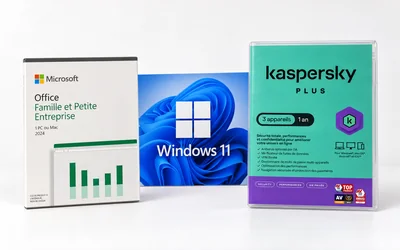
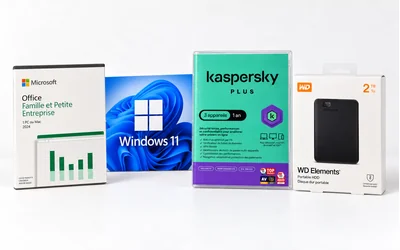
Include WD Elements portable drive in sales card photo

diff --git a/public/mentions-legales/index.html b/public/mentions-legales/index.html
@@ -246,14 +246,14 @@
           </div>
         </article>
         <article class="photo-credit" role="listitem">
-          <a class="photo-credit__preview" href="/assets/img/photos/logiciels-client-800.webp" aria-label="Voir l’image : Kaspersky Plus, Microsoft Office et Windows 11">
+          <a class="photo-credit__preview" href="/assets/img/photos/logiciels-client-800.webp" aria-label="Voir l’image : Kaspersky Plus, Microsoft Office, Windows 11 et WD Elements">
 <img class="editorial-photo photo--contain "
   src="/assets/img/photos/logiciels-client-800.webp"
   srcset="/assets/img/photos/logiciels-client-400.webp 400w, /assets/img/photos/logiciels-client-800.webp 800w, /assets/img/photos/logiciels-client-1600.webp 1600w"
   sizes="96px" width="1600" height="1000"
-  alt="Les logiciels Kaspersky Plus, Microsoft Office Famille et Petite Entreprise 2024 et Windows 11, présentation issue de la photo fournie par Digital-Buro" loading="lazy"  decoding="async"></a>
+  alt="Kaspersky Plus, Microsoft Office Famille et Petite Entreprise 2024, Windows 11 et disque dur portable WD Elements 2 To, présentation issue de la photo fournie par Digital-Buro" loading="lazy"  decoding="async"></a>
           <div>
-            <h3>Kaspersky Plus, Microsoft Office et Windows 11</h3>
+            <h3>Kaspersky Plus, Microsoft Office, Windows 11 et WD Elements</h3>
             <p>Photo fournie par Digital-Buro ; présentation retouchée par IA à partir du cliché du client. Marques et emballages appartenant à leurs ayants droit.</p>
             <p class="photo-credit__links"><a href="/assets/img/photos/logiciels-client-800.webp">Image utilisée</a></p>
           </div>

diff --git a/public/404.html b/public/404.html
@@ -165,7 +165,7 @@
   <a class="svc-card" href="/vente-materiel/">
   <div class="svc-card__body">
     <h2 class="svc-card__title">Vente de matériel</h2>
-    <p class="svc-card__text">Kaspersky, Office et Windows 11 : vos logiciels au magasin.</p>
+    <p class="svc-card__text">Kaspersky, Office, Windows 11 et disques durs portables : vos logiciels et accessoires au magasin.</p>
     <span class="link-arrow svc-card__link">Vente de matériel<svg class="icon" aria-hidden="true" focusable="false"><use href="/assets/img/icons.svg?v=860fc3b275#arrow-right"></use></svg></span>
   </div>
   <div class="svc-card__art svc-card__art--photo svc-card__art--editorial">
@@ -173,7 +173,7 @@
   src="/assets/img/photos/logiciels-client-800.webp"
   srcset="/assets/img/photos/logiciels-client-400.webp 400w, /assets/img/photos/logiciels-client-800.webp 800w, /assets/img/photos/logiciels-client-1600.webp 1600w"
   sizes="(min-width: 1280px) 380px, (min-width: 1024px) calc((100vw - 104px) / 3), (min-width: 768px) calc((100vw - 80px) / 2), (min-width: 640px) calc((100vw - 48px) / 2), calc(100vw - 32px)" width="1600" height="1000"
-  alt="Les logiciels Kaspersky Plus, Microsoft Office Famille et Petite Entreprise 2024 et Windows 11, présentation issue de la photo fournie par Digital-Buro" loading="lazy"  decoding="async"></div>
+  alt="Kaspersky Plus, Microsoft Office Famille et Petite Entreprise 2024, Windows 11 et disque dur portable WD Elements 2 To, présentation issue de la photo fournie par Digital-Buro" loading="lazy"  decoding="async"></div>
 </a>
   <a class="svc-card" href="/cartouches-toners/">
   <div class="svc-card__body">

diff --git a/public/index.html b/public/index.html
@@ -248,7 +248,7 @@
   <a class="svc-card" href="/vente-materiel/">
   <div class="svc-card__body">
     <h3 class="svc-card__title">Vente de matériel</h3>
-    <p class="svc-card__text">Kaspersky, Office et Windows 11 : vos logiciels au magasin.</p>
+    <p class="svc-card__text">Kaspersky, Office, Windows 11 et disques durs portables : vos logiciels et accessoires au magasin.</p>
     <span class="link-arrow svc-card__link">Vente de matériel<svg class="icon" aria-hidden="true" focusable="false"><use href="/assets/img/icons.svg?v=860fc3b275#arrow-right"></use></svg></span>
   </div>
   <div class="svc-card__art svc-card__art--photo svc-card__art--editorial">
@@ -256,7 +256,7 @@
   src="/assets/img/photos/logiciels-client-800.webp"
   srcset="/assets/img/photos/logiciels-client-400.webp 400w, /assets/img/photos/logiciels-client-800.webp 800w, /assets/img/photos/logiciels-client-1600.webp 1600w"
   sizes="(min-width: 1280px) 380px, (min-width: 1024px) calc((100vw - 104px) / 3), (min-width: 768px) calc((100vw - 80px) / 2), (min-width: 640px) calc((100vw - 48px) / 2), calc(100vw - 32px)" width="1600" height="1000"
-  alt="Les logiciels Kaspersky Plus, Microsoft Office Famille et Petite Entreprise 2024 et Windows 11, présentation issue de la photo fournie par Digital-Buro" loading="lazy"  decoding="async"></div>
+  alt="Kaspersky Plus, Microsoft Office Famille et Petite Entreprise 2024, Windows 11 et disque dur portable WD Elements 2 To, présentation issue de la photo fournie par Digital-Buro" loading="lazy"  decoding="async"></div>
 </a>
   <a class="svc-card" href="/cartouches-toners/">
   <div class="svc-card__body">

diff --git a/public/conseils/fonctionnement-imprimante-laser-jet-encre/index.html b/public/conseils/fonctionnement-imprimante-laser-jet-encre/index.html
@@ -275,7 +275,7 @@
   <a class="svc-card" href="/vente-materiel/">
   <div class="svc-card__body">
     <h3 class="svc-card__title">Vente de matériel</h3>
-    <p class="svc-card__text">Kaspersky, Office et Windows 11 : vos logiciels au magasin.</p>
+    <p class="svc-card__text">Kaspersky, Office, Windows 11 et disques durs portables : vos logiciels et accessoires au magasin.</p>
     <span class="link-arrow svc-card__link">Vente de matériel<svg class="icon" aria-hidden="true" focusable="false"><use href="/assets/img/icons.svg?v=860fc3b275#arrow-right"></use></svg></span>
   </div>
   <div class="svc-card__art svc-card__art--photo svc-card__art--editorial">
@@ -283,7 +283,7 @@
   src="/assets/img/photos/logiciels-client-800.webp"
   srcset="/assets/img/photos/logiciels-client-400.webp 400w, /assets/img/photos/logiciels-client-800.webp 800w, /assets/img/photos/logiciels-client-1600.webp 1600w"
   sizes="(min-width: 1280px) 380px, (min-width: 1024px) calc((100vw - 104px) / 3), (min-width: 768px) calc((100vw - 80px) / 2), (min-width: 640px) calc((100vw - 48px) / 2), calc(100vw - 32px)" width="1600" height="1000"
-  alt="Les logiciels Kaspersky Plus, Microsoft Office Famille et Petite Entreprise 2024 et Windows 11, présentation issue de la photo fournie par Digital-Buro" loading="lazy"  decoding="async"></div>
+  alt="Kaspersky Plus, Microsoft Office Famille et Petite Entreprise 2024, Windows 11 et disque dur portable WD Elements 2 To, présentation issue de la photo fournie par Digital-Buro" loading="lazy"  decoding="async"></div>
 </a>
 </div>
   </div>

diff --git a/artifacts/SOFTWARE-IMAGE-PROMPT.md b/artifacts/SOFTWARE-IMAGE-PROMPT.md
@@ -1,10 +1,13 @@
-# Composition des logiciels — 8 octobre 2026
+# Composition des logiciels et du disque dur portable — 8 octobre 2026
 
 Outil : imagegen intégré, retouche de la photographie fournie par le client.
 Source : `WhatsApp Image 2026-10-08 at 14.11.35.jpeg`.
 Résultat conservé : `tools/source-images/logiciels-client-edited.png`.
 Exports : `src/assets/img/photos/logiciels-client-{400,800,1600}.webp`.
 
-## Prompt final
+## Prompt initial (remplacé par la composition de quatre produits)
 
 Edit target: the attached client photograph of packaged software. Create a polished photographic product composition for the Digital-Buro website service card, horizontal landscape 8:5. Keep the SAME real products, packaging graphics and recognizable branding from the reference: Microsoft Office Famille et Petite Entreprise 2024, Kaspersky PLUS (3 appareils, 1 an), and Windows 11 blue card. Show these three products neatly arranged side by side or slightly overlapping, all main labels unobstructed and readable, whole products visible with generous margins. Remove the WD hard-drive package because the requested subject is these three software products. Improve lighting, straighten the perspective and remove glare on the plastic Kaspersky packaging. Clean off-white studio tabletop and backdrop, soft realistic shadows, natural crisp product photography fitting a minimalist white/navy/orange repair shop website. Preserve the brand colours and logos, exact main product names, Office edition and year, Kaspersky licence quantity and duration; do not invent claims, certifications, new labels, extra products, promotional text, watermarks or frames. Maintain photographic authenticity to the supplied packages. Only improve presentation, light and composition.
+## Prompt final — ajout du WD Elements
+
+Edit target: image 1, the polished landscape software product composition. Supporting insert reference: image 2, the original client photo, specifically its WD Elements portable hard drive retail package. Update the existing composition to include ALL FOUR products: Microsoft Office Famille et Petite Entreprise 2024, Windows 11, Kaspersky Plus (3 appareils, 1 an), and the WD Elements Portable HDD 2 TB / 2 To box from the reference. Preserve the current clean off-white studio background, soft shadows, crisp realistic product photography, brand colours, packaging and main labels. Arrange the four products elegantly across the horizontal 8:5 frame with generous margins and all four recognizable at small website card size. Add the WD white package showing the black portable drive, orange WD logo, exact WD Elements product name and 2 TB / 2 To capacity, matching the original reference. You may subtly adjust the spacing and scale of the existing three products to fit the fourth, but preserve their identity and design. Keep all main names and capacity readable and unobstructed. No extra products, no invented marketing text, no watermark or frame. The result should look like the same polished composition, now complete with the portable hard drive.

diff --git a/artifacts/IMAGE-RIGHTS.md b/artifacts/IMAGE-RIGHTS.md
@@ -1,7 +1,7 @@
 # Livraison et logiciels — 8 octobre 2026
 
 - Livreur : Tima Miroshnichenko, [Pexels 6170396](https://www.pexels.com/photo/man-in-jacket-holding-cardboard-box-6170396/), [licence Pexels](https://www.pexels.com/license/) autorisant l’usage sur un site commercial. Illustration de livraison, sans présenter la personne comme un salarié Digital-Buro. Recadrage 8:5, redimensionnement et compression WebP ; auteur et licence indiqués dans les crédits.
-- Logiciels : photo fournie par le client le 8 octobre, retouchée avec imagegen pour présenter Kaspersky Plus, Office 2024 et Windows 11. Emballages et marques conservés ; présentation éclaircie et réorganisée, disque WD retiré. [Prompt et provenance](SOFTWARE-IMAGE-PROMPT.md), source retouchée conservée dans `tools/source-images/logiciels-client-edited.png`. Le crédit public précise cette retouche ; aucune licence de banque d’images ni confirmation supplémentaire de propriété n’est attribuée à ce cliché.
+- Logiciels et stockage : photo fournie par le client le 8 octobre, retouchée avec imagegen pour présenter Kaspersky Plus, Office 2024, Windows 11 et le disque dur portable WD Elements 2 To. Emballages et marques conservés ; présentation éclaircie et réorganisée. [Prompts et provenance](SOFTWARE-IMAGE-PROMPT.md), source retouchée conservée dans `tools/source-images/logiciels-client-edited.png`. Le crédit public précise cette retouche ; aucune licence de banque d’images ni confirmation supplémentaire de propriété n’est attribuée à ce cliché.
 
 # Vérification des droits d’image — complément du 8 octobre 2026
 

diff --git a/CHANGELOG.md b/CHANGELOG.md
@@ -1,5 +1,6 @@
 # Livraison, logiciels et langues — 8 octobre 2026
 
+- Complément : disque dur portable WD Elements 2 To ajouté à la composition de la carte vente, avec le même style photographique ; description et crédits adaptés.
 - Carte entreprises : titre « Service rapide de livraison pour vos consommables de bureau. » et photo de livreur de Tima Miroshnichenko sous licence Pexels.
 - Carte vente : composition Kaspersky Plus, Office 2024 et Windows 11 retouchée avec imagegen à partir de la photo du client ; original retouché et prompt conservés.
 - Choix Français / Nederlands / English affiché avant la navigation sur toutes les pages, y compris sur mobile.
